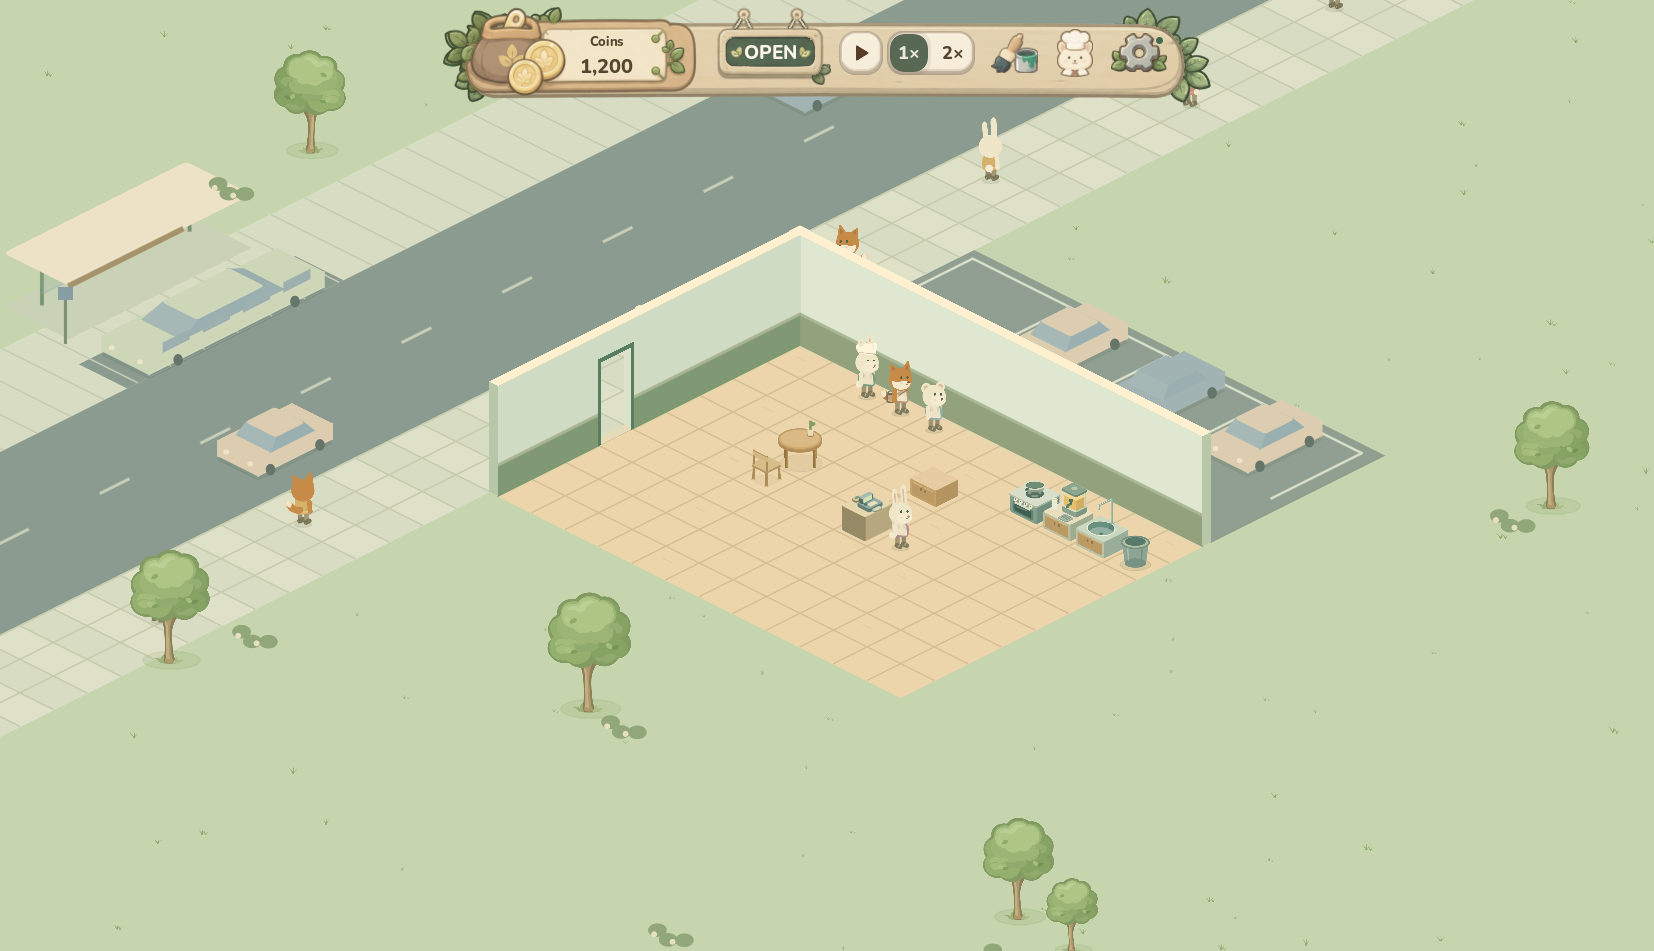
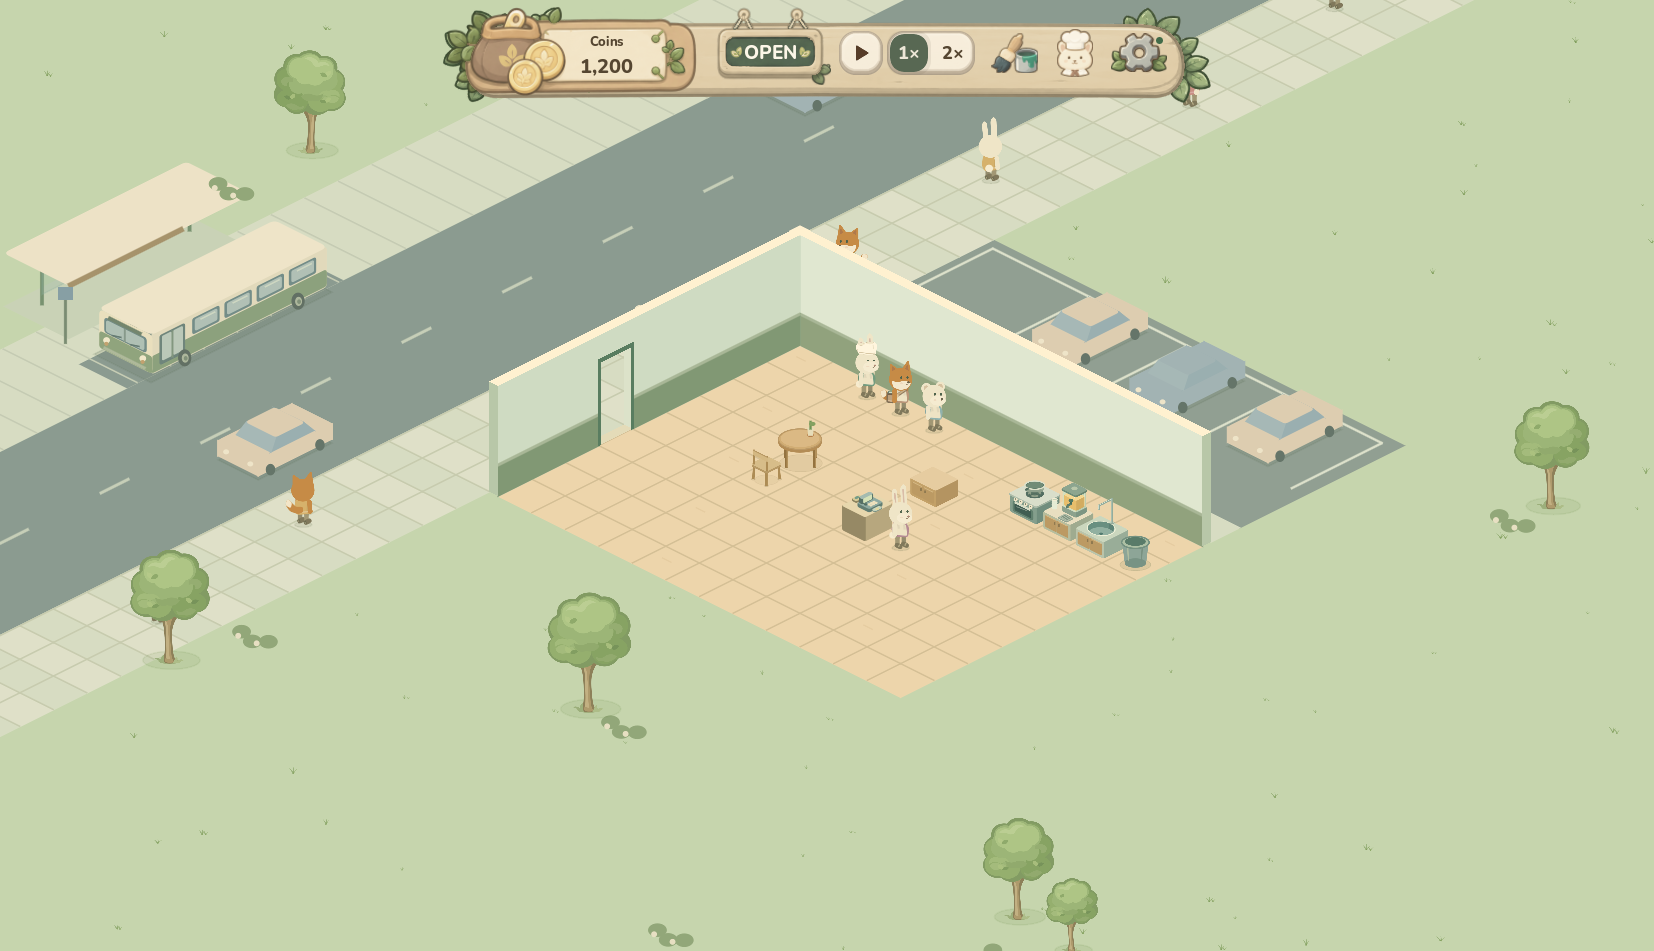
fix: refine illustrated bus and separate rear parking

Changed region(s): [[0.5859, 0.244, 0.8634, 0.5184], [0.0617, 0.244, 0.2158, 0.3964], [0.7092, 0.5489, 0.74, 0.5794]]

diff --git a/docs/environment-010.md b/docs/environment-010.md
@@ -1,6 +1,6 @@
 # v0.1.10 environment groundwork
 
-The approved concept places a compact four-bay lot immediately behind the cafe,
+The approved concept places a compact four-bay lot just behind the cafe, with a narrow clear gap,
 directly joining the existing entrance-side road. This implementation keeps the
 game's original 2D vector illustration, muted sage/cream colours and tree artwork.
 It widens the single road, adds its opposite sidewalk, bus shelter and short bus
@@ -9,10 +9,12 @@ pockets. There is no second road or extended parking driveway.
 
 ## Ownership and integration
 
-The rear lot is render-only: world `Rect2(-0.26,-5.4,12.26,5.14)`. Its entire depth
+The rear lot is render-only: world `Rect2(-0.26,-6.0,12.26,4.9)`. Its entire depth
 is negative, outside all current cafe floor/expansion cells. The mouth is
-`Rect2(-3.26,-2.16,3.0,1.9)`: one short flush crossing over the existing sidewalk,
-with a pedestrian strip marked through it. Aisle and bays lie within the lot.
+`Rect2(-3.26,-3.0,3.0,1.8)`: one short flush crossing over the existing sidewalk,
+with a pedestrian strip marked through it. Aisle and bays lie within the lot. The lot ends at z=-1.1, leaving a
+clear 1.1-tile separation from the rear wall; a narrow pavement connection
+occupies z=-1.1..-0.26, with no extra vehicle access road.
 Three parked vehicles are static scenery; the first bay remains visibly empty.
 They do not represent admitted customers or purchased parking.
 
@@ -83,3 +85,11 @@ to this fixture. See the accompanying validation receipt for final results.
 
 Same-angle actual game renders: [before](environment-010/before.png),
 [after](environment-010/after.png). See [validation receipt](environment-010/validation.json).
+
+Latest bus/spacing review: [layout before](environment-010/layout-before-bus-revision.png),
+[layout after](environment-010/after.png), [enlarged bus before](environment-010/bus-before.png),
+[enlarged bus after](environment-010/bus-after.png). Both detail images are native
+720x460 Godot renders at the same projection, not image edits. The single review
+session captures the layout and both bus details in 16 frames. For a before
+comparison, supply BUS_BEFORE_SCRIPT with the previous 38618c1 environment source
+in a disposable fixture; this legacy fixture is not runtime game code.
